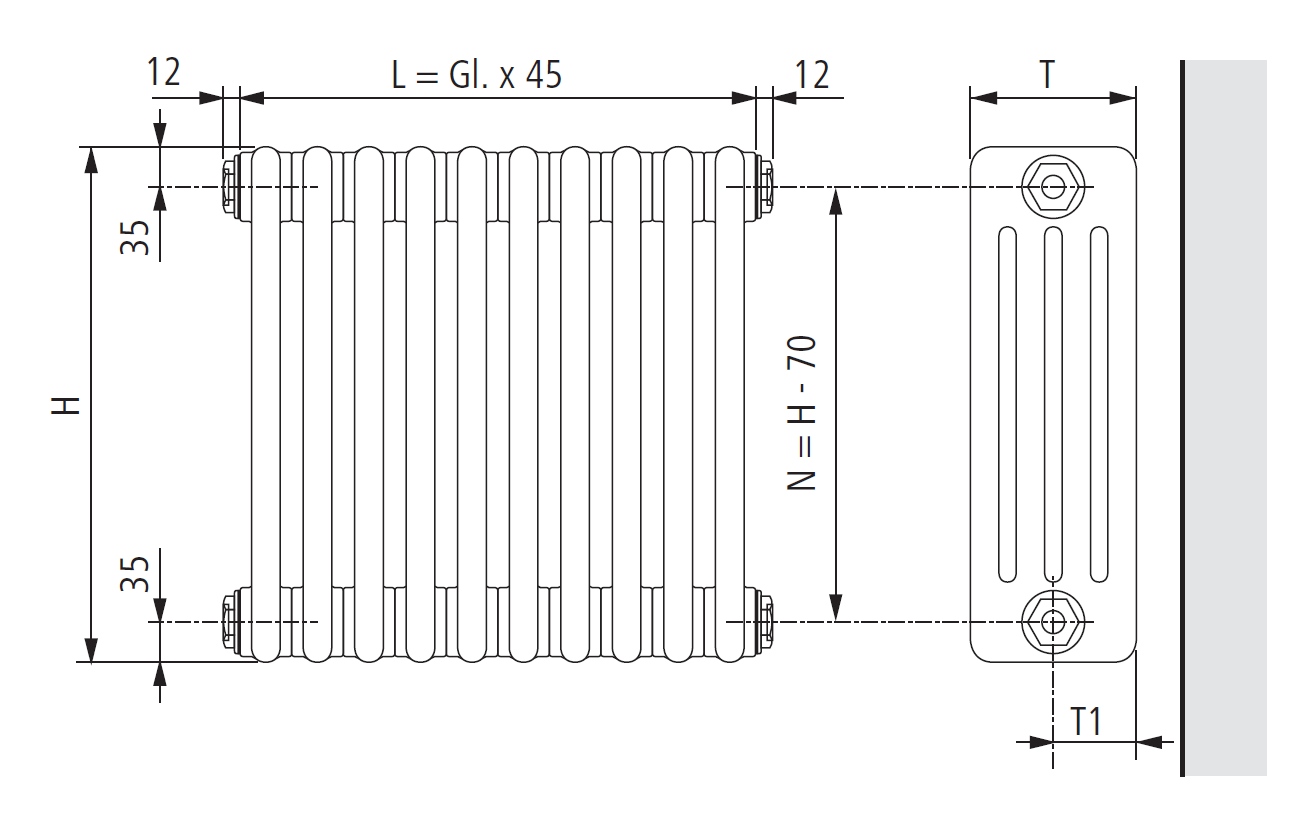
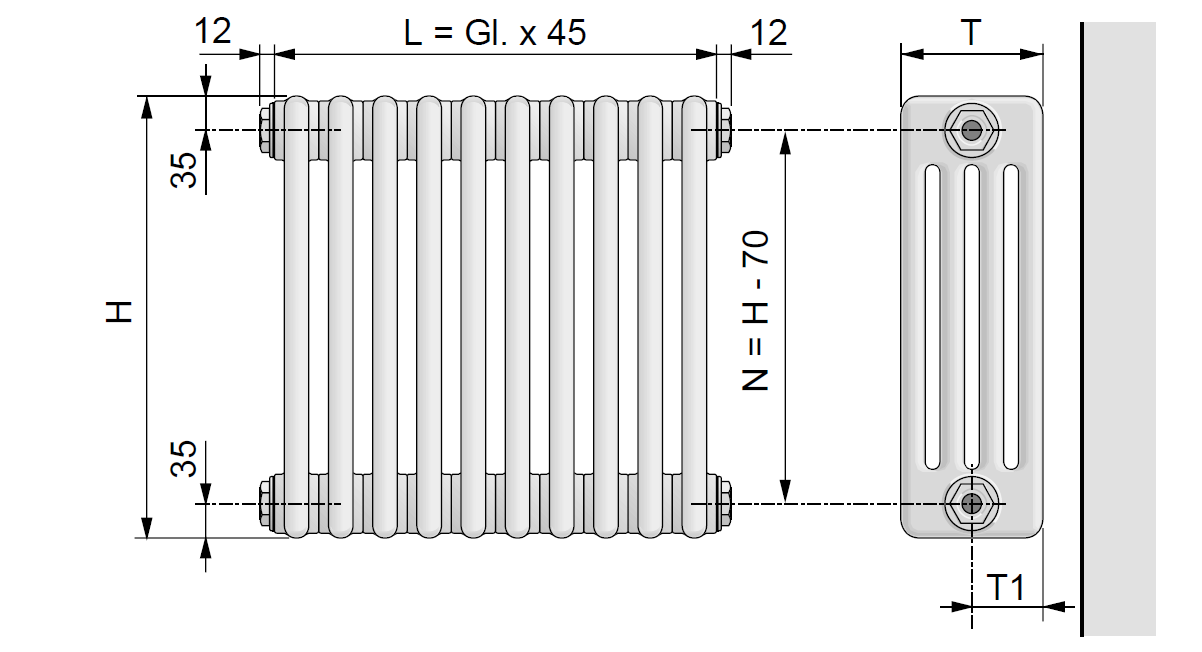
[Ver: 1.3.1_4]: Project design customization (Specifications).

Changed region(s): [[0.0616, 0.0307, 0.6772, 0.8589], [0.7388, 0.0307, 0.985, 0.9816], [0.0308, 0.4601, 0.1231, 0.5215]]

diff --git a/src/components/MainParams/Specifications/Specifications.js b/src/components/MainParams/Specifications/Specifications.js
@@ -1,65 +1,71 @@
 import React from 'react';
 import style from './Specifications.module.css';
+import image from '../../../images/arbonia.png'
 
 
 const Specifications = (props) => {
 	return (
 			<div className={style.container}>
-				<h3>Технические характеристики</h3>
+
 				<div className={style.wrapper}>
+					<h3>Технические характеристики</h3>
+					<div className={style.specification}>
+						<div className={style.item}>
+							<span>Модель прибора: </span>
+							<div className={style.item_option}>
+								{props.specifications.modelCode
+										? props.specifications.modelCode
+										: " .... "}
+							</div>
+						</div>
 
-					<div className={style.item}>
-						<span>Модель прибора: </span>
-						<div className={style.item_option}>
-							{props.specifications.modelCode
-									? props.specifications.modelCode
-									: " .... "}
+						<div className={style.item}>
+							<span>Высота прибора [H]: </span>
+							<div className={style.item_option}>
+								{props.height.value} мм
+							</div>
+						</div>
+
+						<div className={style.item}>
+							<span>Глубина прибора [T]: </span>
+							<div className={style.item_option}>
+								{props.type.value} мм
+							</div>
+						</div>
+
+						<div className={style.item}>
+							<span>Глубина от центра [T1]: </span>
+							<div className={style.item_option}>
+								{props.type.value / 2} мм
+							</div>
+						</div>
+
+						<div className={style.item}>
+							<span>Длина прибора [L]: </span>
+							<div className={style.item_option}>
+								{props.quantitySections > 0 ? props.totalLenght : 0} мм
+							</div>
+						</div>
+
+						<div className={style.item}>
+							<span>Количество секций [GL]: </span>
+							<div className={style.item_option}>
+								{props.quantitySections} шт.
+							</div>
+						</div>
+
+						<div className={style.item_pw}>
+							<span>Мощность прибора (<b>ΔT50</b>/ ΔT60/ ΔT70): </span>
+							<div className={style.item_option_pw}>
+								<b>{props.totalPower}</b>/ {props.totalPower}/ {props.totalPower} Вт
+							</div>
 						</div>
 					</div>
+				</div>
 
-					<div className={style.item}>
-						<span>Высота прибора [H]: </span>
-						<div className={style.item_option}>
-							{props.height.value} мм
-						</div>
-					</div>
+				<div className={style.image_wrapper}>
+					<img src={image} alt="size image"/>
 
-					<div className={style.item}>
-						<span>Глубина прибора [T]: </span>
-						<div className={style.item_option}>
-							{props.type.value} мм
-						</div>
-					</div>
-
-					<div className={style.item}>
-						<span>Глубина от центра [T1]: </span>
-						<div className={style.item_option}>
-							{props.type.value / 2} мм
-						</div>
-					</div>
-
-					<div className={style.item}>
-						<span>Длина прибора [L]: </span>
-						<div className={style.item_option}>
-							{props.quantitySections > 0 ? props.totalLenght : 0} мм
-						</div>
-					</div>
-
-					<div className={style.item}>
-						<span>Количество секций [GL]: </span>
-						<div className={style.item_option}>
-							{props.quantitySections} шт.
-						</div>
-					</div>
-
-
-					<div className={style.item_pw}>
-						<span>Мощность прибора (<b>ΔT50</b>/ ΔT60/ ΔT70): </span>
-						<div className={style.item_option_pw}>
-							<b>{props.totalPower}</b>/ {props.totalPower}/ {props.totalPower} Вт
-
-						</div>
-					</div>
 				</div>
 
 			</div>

diff --git a/src/components/MainParams/Specifications/Specifications.module.css b/src/components/MainParams/Specifications/Specifications.module.css
@@ -1,19 +1,43 @@
 .container {
-    min-width: 300px;
+    width: 750px;
+
     height: 400px;
-    padding: 10px 0 0 0;
+    padding: 10px;
+    /*margin: 10px 0 10px 0;*/
     color: #6d6e70;
     display: flex;
-    flex-direction: column;
-    text-align: left;
+    /*text-align: left;*/
+    justify-content: space-between;
+
 }
 
 .wrapper {
+
+
+}
+
+.specification {
     height: 300px;
     text-align: left;
-    border-left: 2px solid rgba(109, 110, 112, .5);
+    /*border-left: 2px solid rgba(109, 110, 112, .5);*/
+    border-left: 2px solid rgba(245, 130, 31, .5);
     padding: 0 10px 0 10px;
+    margin-top: 20px;
 }
+
+.image_wrapper {
+    width: 420px;
+    height: 350px;
+    border: 1px solid red;
+    display: flex;
+    align-items: center;
+    justify-items: center;
+}
+.image_wrapper img {
+    width: 400px;
+    height: 275px;
+}
+
 
 .item {
     margin-bottom: 15px;
@@ -45,3 +69,4 @@
     padding-right: 5px;
     margin-top: 5px;
 }
+

diff --git a/src/components/MainParams/SizesImageBlock/SizesImage.module.css b/src/components/MainParams/SizesImageBlock/SizesImage.module.css
@@ -2,15 +2,17 @@
     width: 450px;
     height: 350px;
     display: flex;
-    align-items: left;
+    /*align-items: ;*/
+    justify-content: center;
     padding: 10px;
 
 }
 .wrap_image {
     display: flex;
-    /*align-items: center;*/
-    width: 433px;
-    height: 266px;
+    width: 430px;
+    height: 270px;
+
+
 }
 
 /*.wrap_image image {*/

diff --git a/src/components/MainParams/Params/Params.module.css b/src/components/MainParams/Params/Params.module.css
@@ -1,5 +1,5 @@
 .container {
-    min-width: 490px;
+    min-width: 450px;
     height: 400px;
     padding: 10px;
     display: flex;
@@ -98,8 +98,8 @@
 }
 
 .radio_btn label img{
-    width: 72px;
-    height: 100px;
+    width: 65px;
+    height: 91px;
     cursor: pointer;
     user-select: none;
 }

diff --git a/src/components/MainParams/MainParams.js b/src/components/MainParams/MainParams.js
@@ -14,7 +14,7 @@ const MainParams = () => {
 				<div className = {style.container}>
 					<ParamsContainer />
 					<SpecificationsContainer />
-					<SizesImage/>
+					{/*<SizesImage/>*/}
 				</div>
 
 			</div>
